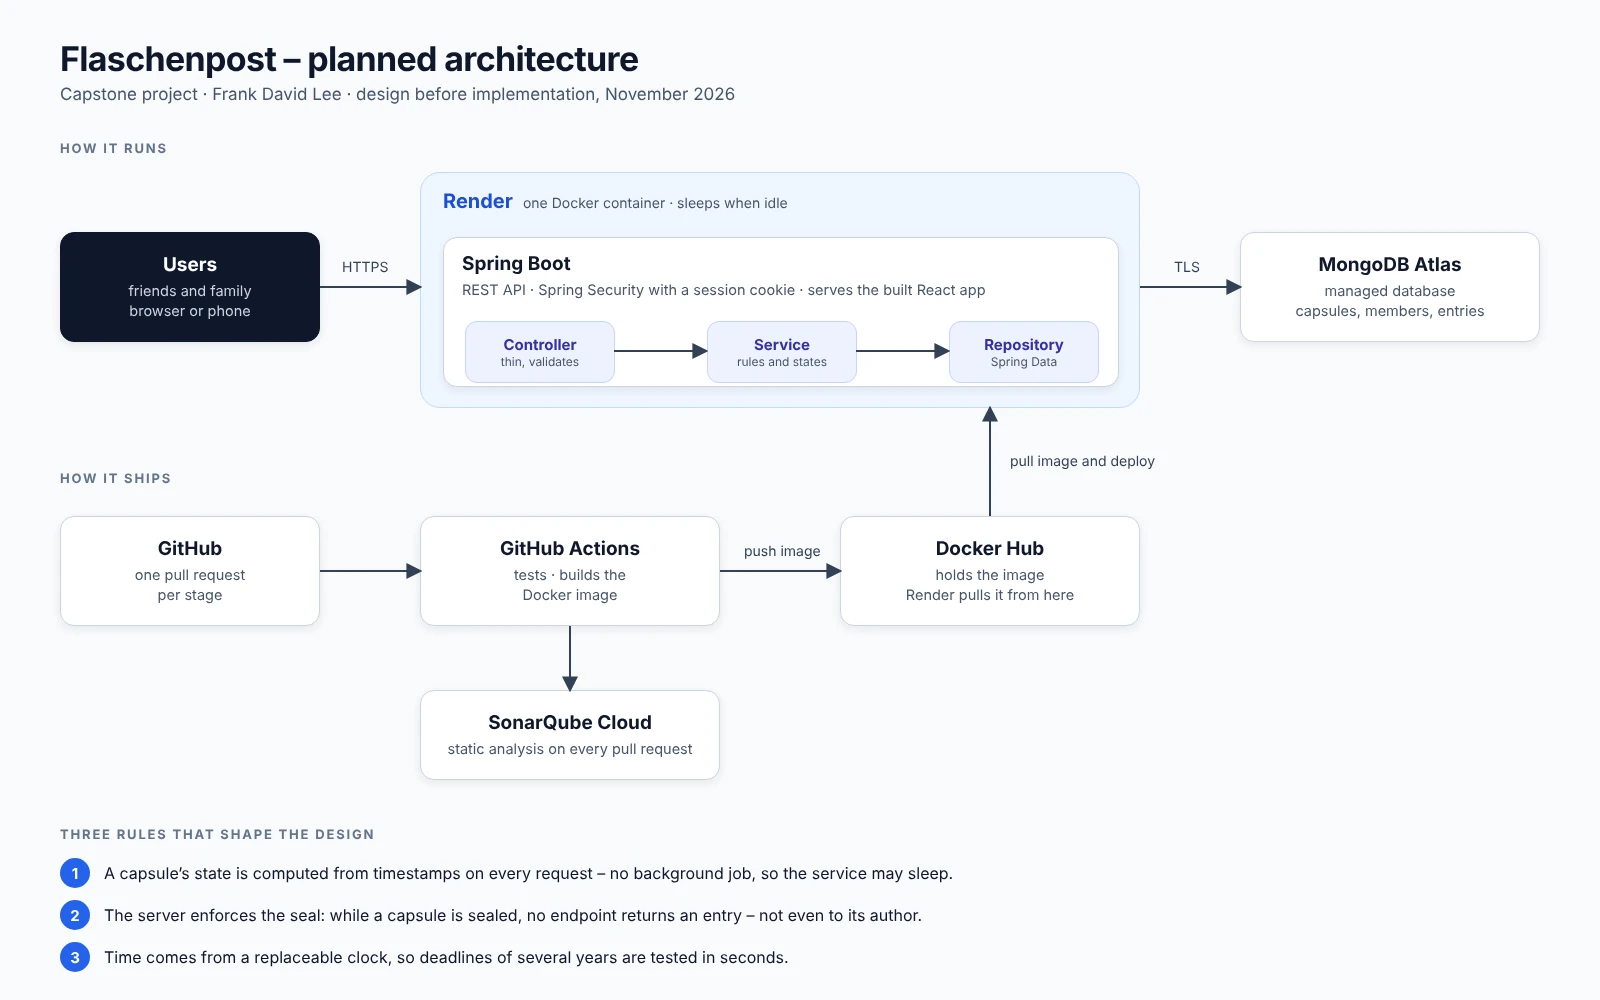
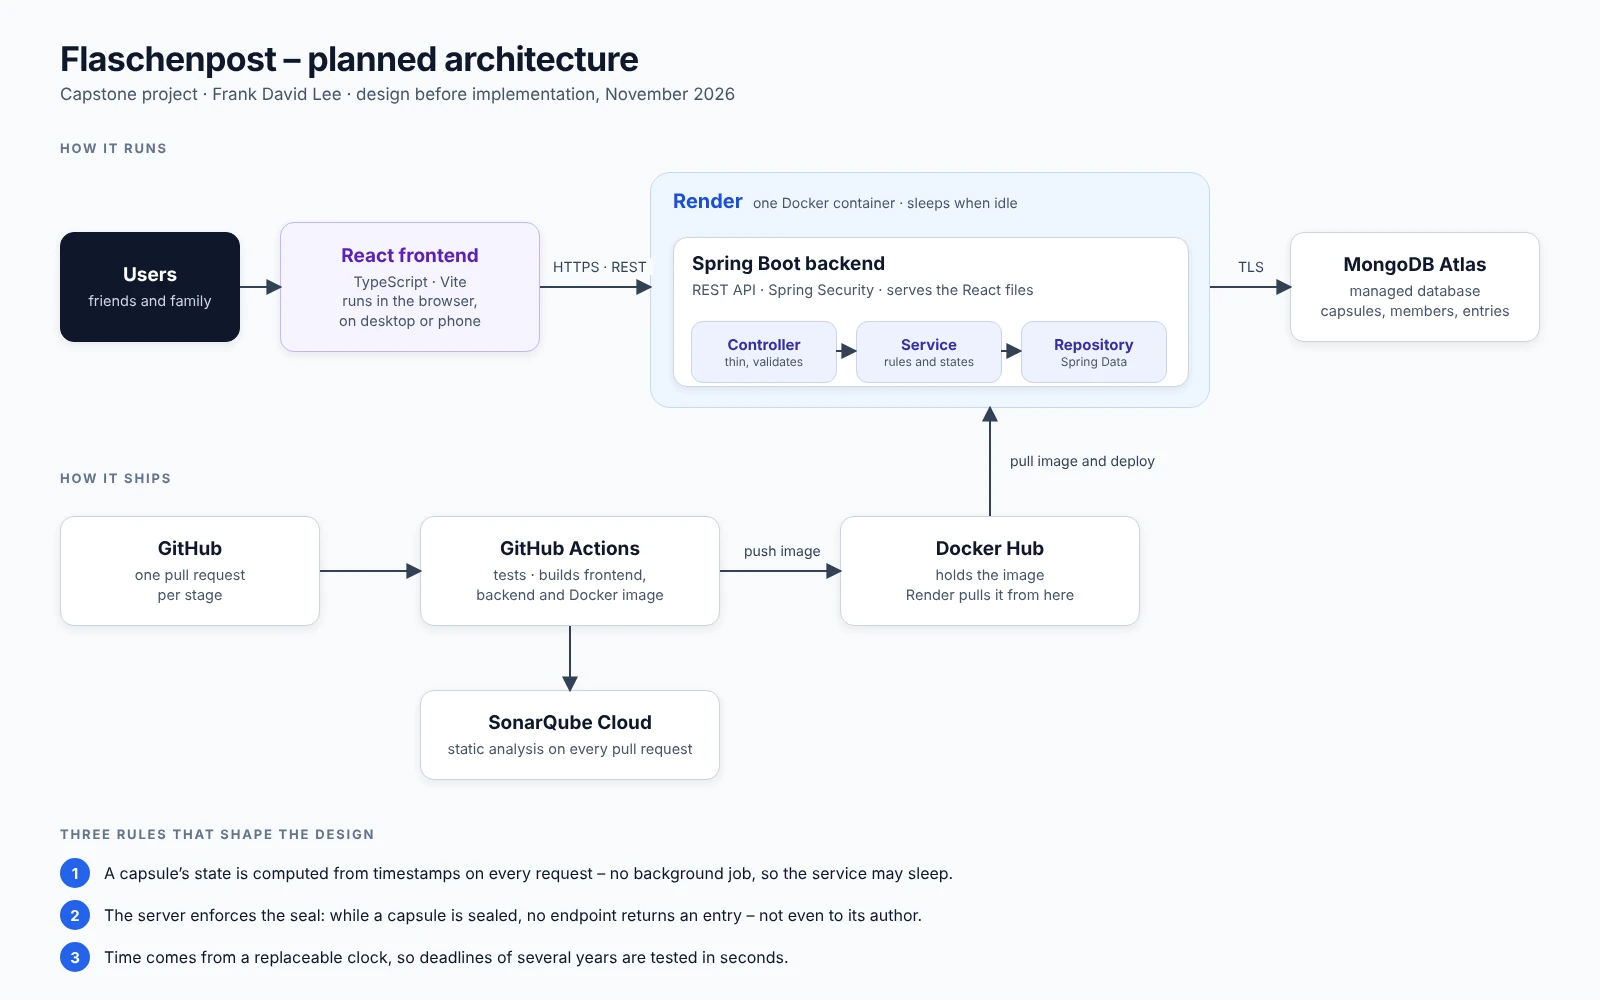
Capstone-Zeichnung mit React-Frontend (#71)

diff --git a/de/projekte/capstone-neuefische/index.html b/de/projekte/capstone-neuefische/index.html
@@ -95,7 +95,7 @@
           </div>
         </section>
       </div>
-      <section class="huelle fs-galerie einblenden" aria-labelledby="h-galerie"><h2 id="h-galerie">Bildschirmfotos</h2><div class="galerie"><figure class="galerie-figur"><button type="button" class="galerie-knopf" data-galerie-index="1" aria-label="Bild vergrößern: Geplante Architektur der Flaschenpost: Nutzer erreichen über HTTPS einen Docker-Container bei Render mit Spring Boot, dahinter MongoDB Atlas; GitHub Actions baut das Image, Docker Hub hält es, Render holt es von dort"><div class="geraet geraet-desktop" style="--farbton:160"><div class="geraet-leiste" aria-hidden="true"><i></i><i></i><i></i><span>Flaschenpost</span></div><div class="geraet-schirm"><picture><source type="image/webp" srcset="/bilder/projekte/capstone-neuefische/architektur-800.webp 800w, /bilder/projekte/capstone-neuefische/architektur-1600.webp 1600w" sizes="(min-width: 1024px) 560px, 100vw"><img src="/bilder/projekte/capstone-neuefische/architektur-800.webp" alt="Geplante Architektur der Flaschenpost: Nutzer erreichen über HTTPS einen Docker-Container bei Render mit Spring Boot, dahinter MongoDB Atlas; GitHub Actions baut das Image, Docker Hub hält es, Render holt es von dort" width="1600" height="1000" loading="lazy" decoding="async" sizes="(min-width: 1024px) 560px, 100vw"></picture></div></div><span class="galerie-lupe" aria-hidden="true"><svg class="sym" viewBox="0 0 24 24" width="24" height="24" fill="none" stroke="currentColor" stroke-width="1.7" stroke-linecap="round" stroke-linejoin="round" aria-hidden="true" focusable="false"><circle cx="11" cy="11" r="6.5"/><path d="m16 16 4.5 4.5"/><path d="M11 8.5v5"/><path d="M8.5 11h5"/></svg></span></button><figcaption>Geplante Architektur (Beschriftung englisch): oben der Betrieb mit Render und MongoDB Atlas, darunter der Weg vom Pull Request über GitHub Actions und Docker Hub in den Betrieb.</figcaption></figure><figure class="galerie-figur"><button type="button" class="galerie-knopf" data-galerie-index="2" aria-label="Bild vergrößern: Entwurf: versiegelte Kapsel mit Countdown und Abstimmung zum vorzeitigen Öffnen"><div class="geraet geraet-mobil" style="--farbton:160"><div class="geraet-glas" style="--status-bg:#F3F6F7;--status-fg:#0f172a"><div class="geraet-status" aria-hidden="true"><span>9:41</span><i class="geraet-insel"></i><span class="geraet-zeichen"><svg class="sym" viewBox="0 0 24 24" width="24" height="24" fill="none" stroke="currentColor" stroke-width="1.7" stroke-linecap="round" stroke-linejoin="round" aria-hidden="true" focusable="false"><path d="M4 19v-3"/><path d="M9 19v-6"/><path d="M14 19v-9"/><path d="M19 19V6"/></svg><svg class="sym" viewBox="0 0 24 24" width="24" height="24" fill="none" stroke="currentColor" stroke-width="1.7" stroke-linecap="round" stroke-linejoin="round" aria-hidden="true" focusable="false"><path d="M4.5 10.5a11 11 0 0 1 15 0"/><path d="M7.5 13.8a6.8 6.8 0 0 1 9 0"/><path d="M12 18h.01"/></svg><svg class="sym" viewBox="0 0 24 24" width="24" height="24" fill="none" stroke="currentColor" stroke-width="1.7" stroke-linecap="round" stroke-linejoin="round" aria-hidden="true" focusable="false"><rect x="2.5" y="8" width="17" height="8.5" rx="2.2"/><path d="M21.5 11v2.5"/><path d="M5.5 11v2.5"/><path d="M8.5 11v2.5"/><path d="M11.5 11v2.5"/><path d="M14.5 11v2.5"/></svg></span></div><div class="geraet-schirm"><picture><source type="image/webp" srcset="/bilder/projekte/capstone-neuefische/handy-800.webp 800w" sizes="(min-width: 1024px) 560px, 100vw"><img src="/bilder/projekte/capstone-neuefische/handy-800.webp" alt="Entwurf: versiegelte Kapsel mit Countdown und Abstimmung zum vorzeitigen Öffnen" width="800" height="1732" loading="lazy" decoding="async" sizes="(min-width: 1024px) 560px, 100vw"></picture></div></div></div><span class="galerie-lupe" aria-hidden="true"><svg class="sym" viewBox="0 0 24 24" width="24" height="24" fill="none" stroke="currentColor" stroke-width="1.7" stroke-linecap="round" stroke-linejoin="round" aria-hidden="true" focusable="false"><circle cx="11" cy="11" r="6.5"/><path d="m16 16 4.5 4.5"/><path d="M11 8.5v5"/><path d="M8.5 11h5"/></svg></span></button><figcaption>Versiegelt: Bis zum Öffnungstag kann niemand die Einträge lesen. Früher öffnen geht nur, wenn alle zustimmen.</figcaption></figure></div></section>
+      <section class="huelle fs-galerie einblenden" aria-labelledby="h-galerie"><h2 id="h-galerie">Bildschirmfotos</h2><div class="galerie"><figure class="galerie-figur"><button type="button" class="galerie-knopf" data-galerie-index="1" aria-label="Bild vergrößern: Geplante Architektur der Flaschenpost: Die React-Oberfläche läuft im Browser und spricht über HTTPS mit dem Spring-Boot-Backend in einem Docker-Container bei Render, dahinter MongoDB Atlas; GitHub Actions baut das Image, Docker Hub hält es, Render holt es von dort"><div class="geraet geraet-desktop" style="--farbton:160"><div class="geraet-leiste" aria-hidden="true"><i></i><i></i><i></i><span>Flaschenpost</span></div><div class="geraet-schirm"><picture><source type="image/webp" srcset="/bilder/projekte/capstone-neuefische/architektur-800.webp 800w, /bilder/projekte/capstone-neuefische/architektur-1600.webp 1600w" sizes="(min-width: 1024px) 560px, 100vw"><img src="/bilder/projekte/capstone-neuefische/architektur-800.webp" alt="Geplante Architektur der Flaschenpost: Die React-Oberfläche läuft im Browser und spricht über HTTPS mit dem Spring-Boot-Backend in einem Docker-Container bei Render, dahinter MongoDB Atlas; GitHub Actions baut das Image, Docker Hub hält es, Render holt es von dort" width="1600" height="1000" loading="lazy" decoding="async" sizes="(min-width: 1024px) 560px, 100vw"></picture></div></div><span class="galerie-lupe" aria-hidden="true"><svg class="sym" viewBox="0 0 24 24" width="24" height="24" fill="none" stroke="currentColor" stroke-width="1.7" stroke-linecap="round" stroke-linejoin="round" aria-hidden="true" focusable="false"><circle cx="11" cy="11" r="6.5"/><path d="m16 16 4.5 4.5"/><path d="M11 8.5v5"/><path d="M8.5 11h5"/></svg></span></button><figcaption>Geplante Architektur (Beschriftung englisch): oben der Betrieb mit React-Frontend, Spring-Boot-Backend bei Render und MongoDB Atlas, darunter der Weg vom Pull Request über GitHub Actions und Docker Hub in den Betrieb.</figcaption></figure><figure class="galerie-figur"><button type="button" class="galerie-knopf" data-galerie-index="2" aria-label="Bild vergrößern: Entwurf: versiegelte Kapsel mit Countdown und Abstimmung zum vorzeitigen Öffnen"><div class="geraet geraet-mobil" style="--farbton:160"><div class="geraet-glas" style="--status-bg:#F3F6F7;--status-fg:#0f172a"><div class="geraet-status" aria-hidden="true"><span>9:41</span><i class="geraet-insel"></i><span class="geraet-zeichen"><svg class="sym" viewBox="0 0 24 24" width="24" height="24" fill="none" stroke="currentColor" stroke-width="1.7" stroke-linecap="round" stroke-linejoin="round" aria-hidden="true" focusable="false"><path d="M4 19v-3"/><path d="M9 19v-6"/><path d="M14 19v-9"/><path d="M19 19V6"/></svg><svg class="sym" viewBox="0 0 24 24" width="24" height="24" fill="none" stroke="currentColor" stroke-width="1.7" stroke-linecap="round" stroke-linejoin="round" aria-hidden="true" focusable="false"><path d="M4.5 10.5a11 11 0 0 1 15 0"/><path d="M7.5 13.8a6.8 6.8 0 0 1 9 0"/><path d="M12 18h.01"/></svg><svg class="sym" viewBox="0 0 24 24" width="24" height="24" fill="none" stroke="currentColor" stroke-width="1.7" stroke-linecap="round" stroke-linejoin="round" aria-hidden="true" focusable="false"><rect x="2.5" y="8" width="17" height="8.5" rx="2.2"/><path d="M21.5 11v2.5"/><path d="M5.5 11v2.5"/><path d="M8.5 11v2.5"/><path d="M11.5 11v2.5"/><path d="M14.5 11v2.5"/></svg></span></div><div class="geraet-schirm"><picture><source type="image/webp" srcset="/bilder/projekte/capstone-neuefische/handy-800.webp 800w" sizes="(min-width: 1024px) 560px, 100vw"><img src="/bilder/projekte/capstone-neuefische/handy-800.webp" alt="Entwurf: versiegelte Kapsel mit Countdown und Abstimmung zum vorzeitigen Öffnen" width="800" height="1732" loading="lazy" decoding="async" sizes="(min-width: 1024px) 560px, 100vw"></picture></div></div></div><span class="galerie-lupe" aria-hidden="true"><svg class="sym" viewBox="0 0 24 24" width="24" height="24" fill="none" stroke="currentColor" stroke-width="1.7" stroke-linecap="round" stroke-linejoin="round" aria-hidden="true" focusable="false"><circle cx="11" cy="11" r="6.5"/><path d="m16 16 4.5 4.5"/><path d="M11 8.5v5"/><path d="M8.5 11h5"/></svg></span></button><figcaption>Versiegelt: Bis zum Öffnungstag kann niemand die Einträge lesen. Früher öffnen geht nur, wenn alle zustimmen.</figcaption></figure></div></section>
       <nav class="huelle fs-weiter" aria-label="Weitere Projekte">
         <a href="/de/projekte/linelit/" rel="prev"><span><svg class="sym" viewBox="0 0 24 24" width="24" height="24" fill="none" stroke="currentColor" stroke-width="1.7" stroke-linecap="round" stroke-linejoin="round" aria-hidden="true" focusable="false"><path d="M19 12H5"/><path d="m11 6-6 6 6 6"/></svg>Vorheriges Projekt</span><strong>Linelit</strong></a>
         <a href="/de/projekte/movie-recommender/" rel="next"><span>Nächstes Projekt<svg class="sym" viewBox="0 0 24 24" width="24" height="24" fill="none" stroke="currentColor" stroke-width="1.7" stroke-linecap="round" stroke-linejoin="round" aria-hidden="true" focusable="false"><path d="M5 12h14"/><path d="m13 6 6 6-6 6"/></svg></span><strong>Movie Recommender</strong></a>

diff --git a/projects/capstone-neuefische/index.html b/projects/capstone-neuefische/index.html
@@ -95,7 +95,7 @@
           </div>
         </section>
       </div>
-      <section class="huelle fs-galerie einblenden" aria-labelledby="h-galerie"><h2 id="h-galerie">Screenshots</h2><div class="galerie"><figure class="galerie-figur"><button type="button" class="galerie-knopf" data-galerie-index="1" aria-label="Enlarge image: Planned Flaschenpost architecture: users reach a Docker container on Render running Spring Boot over HTTPS, backed by MongoDB Atlas; GitHub Actions builds the image, Docker Hub holds it and Render pulls it from there"><div class="geraet geraet-desktop" style="--farbton:160"><div class="geraet-leiste" aria-hidden="true"><i></i><i></i><i></i><span>Flaschenpost</span></div><div class="geraet-schirm"><picture><source type="image/webp" srcset="/bilder/projekte/capstone-neuefische/architektur-800.webp 800w, /bilder/projekte/capstone-neuefische/architektur-1600.webp 1600w" sizes="(min-width: 1024px) 560px, 100vw"><img src="/bilder/projekte/capstone-neuefische/architektur-800.webp" alt="Planned Flaschenpost architecture: users reach a Docker container on Render running Spring Boot over HTTPS, backed by MongoDB Atlas; GitHub Actions builds the image, Docker Hub holds it and Render pulls it from there" width="1600" height="1000" loading="lazy" decoding="async" sizes="(min-width: 1024px) 560px, 100vw"></picture></div></div><span class="galerie-lupe" aria-hidden="true"><svg class="sym" viewBox="0 0 24 24" width="24" height="24" fill="none" stroke="currentColor" stroke-width="1.7" stroke-linecap="round" stroke-linejoin="round" aria-hidden="true" focusable="false"><circle cx="11" cy="11" r="6.5"/><path d="m16 16 4.5 4.5"/><path d="M11 8.5v5"/><path d="M8.5 11h5"/></svg></span></button><figcaption>Planned architecture: runtime on Render with MongoDB Atlas at the top, and below it the path from pull request through GitHub Actions and Docker Hub into production.</figcaption></figure><figure class="galerie-figur"><button type="button" class="galerie-knopf" data-galerie-index="2" aria-label="Enlarge image: Design: sealed capsule with a countdown and a vote on opening early"><div class="geraet geraet-mobil" style="--farbton:160"><div class="geraet-glas" style="--status-bg:#F3F6F7;--status-fg:#0f172a"><div class="geraet-status" aria-hidden="true"><span>9:41</span><i class="geraet-insel"></i><span class="geraet-zeichen"><svg class="sym" viewBox="0 0 24 24" width="24" height="24" fill="none" stroke="currentColor" stroke-width="1.7" stroke-linecap="round" stroke-linejoin="round" aria-hidden="true" focusable="false"><path d="M4 19v-3"/><path d="M9 19v-6"/><path d="M14 19v-9"/><path d="M19 19V6"/></svg><svg class="sym" viewBox="0 0 24 24" width="24" height="24" fill="none" stroke="currentColor" stroke-width="1.7" stroke-linecap="round" stroke-linejoin="round" aria-hidden="true" focusable="false"><path d="M4.5 10.5a11 11 0 0 1 15 0"/><path d="M7.5 13.8a6.8 6.8 0 0 1 9 0"/><path d="M12 18h.01"/></svg><svg class="sym" viewBox="0 0 24 24" width="24" height="24" fill="none" stroke="currentColor" stroke-width="1.7" stroke-linecap="round" stroke-linejoin="round" aria-hidden="true" focusable="false"><rect x="2.5" y="8" width="17" height="8.5" rx="2.2"/><path d="M21.5 11v2.5"/><path d="M5.5 11v2.5"/><path d="M8.5 11v2.5"/><path d="M11.5 11v2.5"/><path d="M14.5 11v2.5"/></svg></span></div><div class="geraet-schirm"><picture><source type="image/webp" srcset="/bilder/projekte/capstone-neuefische/handy-800.webp 800w" sizes="(min-width: 1024px) 560px, 100vw"><img src="/bilder/projekte/capstone-neuefische/handy-800.webp" alt="Design: sealed capsule with a countdown and a vote on opening early" width="800" height="1732" loading="lazy" decoding="async" sizes="(min-width: 1024px) 560px, 100vw"></picture></div></div></div><span class="galerie-lupe" aria-hidden="true"><svg class="sym" viewBox="0 0 24 24" width="24" height="24" fill="none" stroke="currentColor" stroke-width="1.7" stroke-linecap="round" stroke-linejoin="round" aria-hidden="true" focusable="false"><circle cx="11" cy="11" r="6.5"/><path d="m16 16 4.5 4.5"/><path d="M11 8.5v5"/><path d="M8.5 11h5"/></svg></span></button><figcaption>Sealed: until the opening day nobody can read the entries. Opening early is only possible if everyone agrees.</figcaption></figure></div></section>
+      <section class="huelle fs-galerie einblenden" aria-labelledby="h-galerie"><h2 id="h-galerie">Screenshots</h2><div class="galerie"><figure class="galerie-figur"><button type="button" class="galerie-knopf" data-galerie-index="1" aria-label="Enlarge image: Planned Flaschenpost architecture: the React frontend runs in the browser and talks over HTTPS to the Spring Boot backend in a Docker container on Render, backed by MongoDB Atlas; GitHub Actions builds the image, Docker Hub holds it and Render pulls it from there"><div class="geraet geraet-desktop" style="--farbton:160"><div class="geraet-leiste" aria-hidden="true"><i></i><i></i><i></i><span>Flaschenpost</span></div><div class="geraet-schirm"><picture><source type="image/webp" srcset="/bilder/projekte/capstone-neuefische/architektur-800.webp 800w, /bilder/projekte/capstone-neuefische/architektur-1600.webp 1600w" sizes="(min-width: 1024px) 560px, 100vw"><img src="/bilder/projekte/capstone-neuefische/architektur-800.webp" alt="Planned Flaschenpost architecture: the React frontend runs in the browser and talks over HTTPS to the Spring Boot backend in a Docker container on Render, backed by MongoDB Atlas; GitHub Actions builds the image, Docker Hub holds it and Render pulls it from there" width="1600" height="1000" loading="lazy" decoding="async" sizes="(min-width: 1024px) 560px, 100vw"></picture></div></div><span class="galerie-lupe" aria-hidden="true"><svg class="sym" viewBox="0 0 24 24" width="24" height="24" fill="none" stroke="currentColor" stroke-width="1.7" stroke-linecap="round" stroke-linejoin="round" aria-hidden="true" focusable="false"><circle cx="11" cy="11" r="6.5"/><path d="m16 16 4.5 4.5"/><path d="M11 8.5v5"/><path d="M8.5 11h5"/></svg></span></button><figcaption>Planned architecture: at the top the runtime with the React frontend, the Spring Boot backend on Render and MongoDB Atlas; below it the path from pull request through GitHub Actions and Docker Hub into production.</figcaption></figure><figure class="galerie-figur"><button type="button" class="galerie-knopf" data-galerie-index="2" aria-label="Enlarge image: Design: sealed capsule with a countdown and a vote on opening early"><div class="geraet geraet-mobil" style="--farbton:160"><div class="geraet-glas" style="--status-bg:#F3F6F7;--status-fg:#0f172a"><div class="geraet-status" aria-hidden="true"><span>9:41</span><i class="geraet-insel"></i><span class="geraet-zeichen"><svg class="sym" viewBox="0 0 24 24" width="24" height="24" fill="none" stroke="currentColor" stroke-width="1.7" stroke-linecap="round" stroke-linejoin="round" aria-hidden="true" focusable="false"><path d="M4 19v-3"/><path d="M9 19v-6"/><path d="M14 19v-9"/><path d="M19 19V6"/></svg><svg class="sym" viewBox="0 0 24 24" width="24" height="24" fill="none" stroke="currentColor" stroke-width="1.7" stroke-linecap="round" stroke-linejoin="round" aria-hidden="true" focusable="false"><path d="M4.5 10.5a11 11 0 0 1 15 0"/><path d="M7.5 13.8a6.8 6.8 0 0 1 9 0"/><path d="M12 18h.01"/></svg><svg class="sym" viewBox="0 0 24 24" width="24" height="24" fill="none" stroke="currentColor" stroke-width="1.7" stroke-linecap="round" stroke-linejoin="round" aria-hidden="true" focusable="false"><rect x="2.5" y="8" width="17" height="8.5" rx="2.2"/><path d="M21.5 11v2.5"/><path d="M5.5 11v2.5"/><path d="M8.5 11v2.5"/><path d="M11.5 11v2.5"/><path d="M14.5 11v2.5"/></svg></span></div><div class="geraet-schirm"><picture><source type="image/webp" srcset="/bilder/projekte/capstone-neuefische/handy-800.webp 800w" sizes="(min-width: 1024px) 560px, 100vw"><img src="/bilder/projekte/capstone-neuefische/handy-800.webp" alt="Design: sealed capsule with a countdown and a vote on opening early" width="800" height="1732" loading="lazy" decoding="async" sizes="(min-width: 1024px) 560px, 100vw"></picture></div></div></div><span class="galerie-lupe" aria-hidden="true"><svg class="sym" viewBox="0 0 24 24" width="24" height="24" fill="none" stroke="currentColor" stroke-width="1.7" stroke-linecap="round" stroke-linejoin="round" aria-hidden="true" focusable="false"><circle cx="11" cy="11" r="6.5"/><path d="m16 16 4.5 4.5"/><path d="M11 8.5v5"/><path d="M8.5 11h5"/></svg></span></button><figcaption>Sealed: until the opening day nobody can read the entries. Opening early is only possible if everyone agrees.</figcaption></figure></div></section>
       <nav class="huelle fs-weiter" aria-label="More projects">
         <a href="/projects/linelit/" rel="prev"><span><svg class="sym" viewBox="0 0 24 24" width="24" height="24" fill="none" stroke="currentColor" stroke-width="1.7" stroke-linecap="round" stroke-linejoin="round" aria-hidden="true" focusable="false"><path d="M19 12H5"/><path d="m11 6-6 6 6 6"/></svg>Previous project</span><strong>Linelit</strong></a>
         <a href="/projects/movie-recommender/" rel="next"><span>Next project<svg class="sym" viewBox="0 0 24 24" width="24" height="24" fill="none" stroke="currentColor" stroke-width="1.7" stroke-linecap="round" stroke-linejoin="round" aria-hidden="true" focusable="false"><path d="M5 12h14"/><path d="m13 6 6 6-6 6"/></svg></span><strong>Movie Recommender</strong></a>
